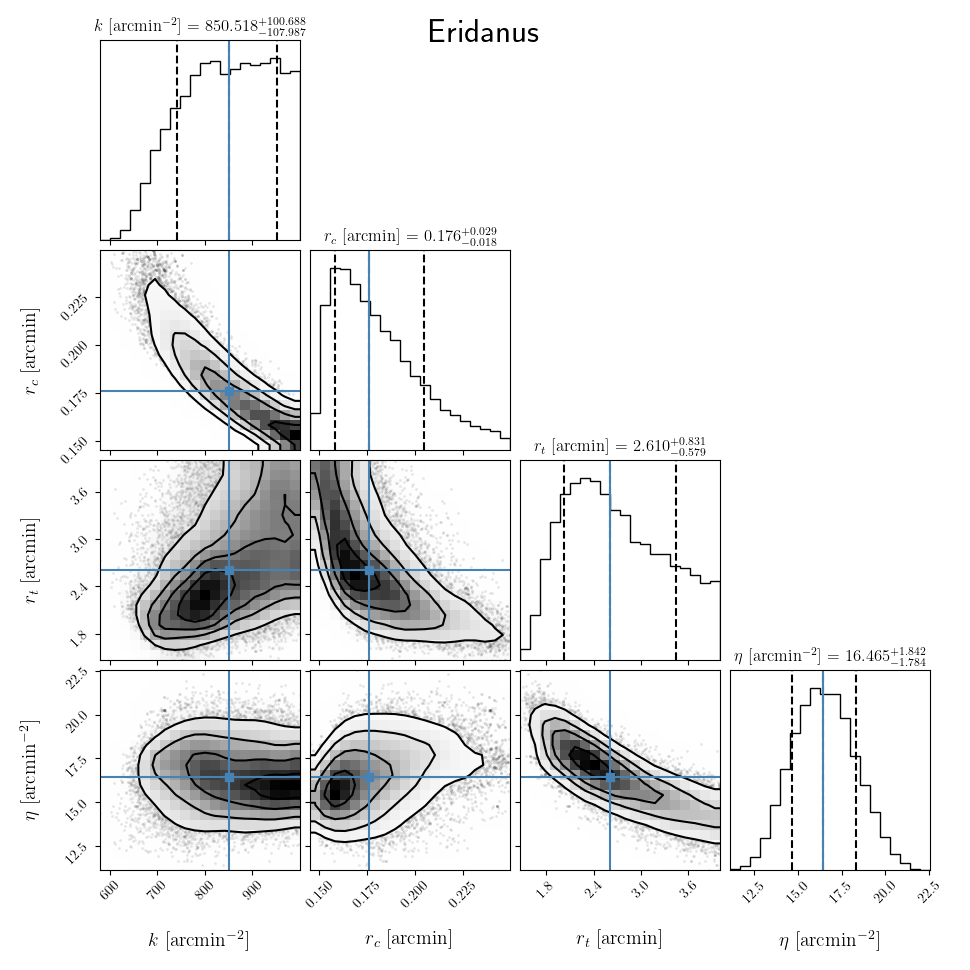
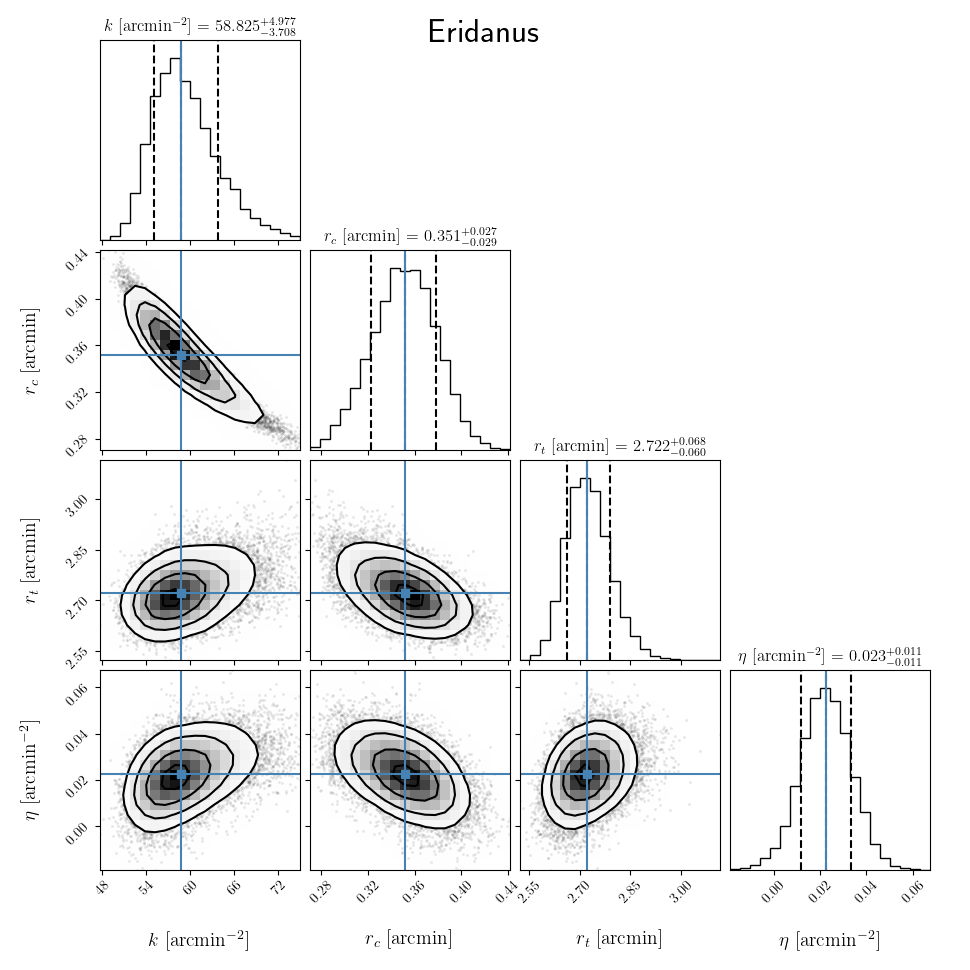
modify radial profile fitting

diff --git a/scripts/analysis.py b/scripts/analysis.py
@@ -27,8 +27,8 @@ def radial_mle(file_path, r_lower, r_upper, priors, p0):
     Parameters:
     
     file_path: path to the cluster membership list file
-    r_lower: minimum radius, from cluster centre, at which the radial profile must begin.
-    r_upper: maximum radius, from cluster centre, at which the radial profile ends
+    r_lower: minimum radius (arcmin), from cluster centre, at which the radial profile must begin.
+    r_upper: maximum radius (arcmin), from cluster centre, at which the radial profile ends
     priors: prior distribution (uniform), with specified bounds for each fit parameter 
     p0: initial guess"""
     
@@ -41,42 +41,36 @@ def radial_mle(file_path, r_lower, r_upper, priors, p0):
     y = np.cos(dec.mean())*np.sin(dec) - np.sin(dec.mean())*np.cos(dec)*np.cos(ra-ra.mean())
     R = (x**2 + y**2)**0.5*(180/np.pi*60) # R in arcmin!
 
-    bws = [0.4e-2, 0.5e-2, 1e-1]
+    diff = r_upper - r_lower
+    bws = [0.125e-2*diff, 0.25e-2*diff, 0.5e-2*diff]
     N_array = np.array([])
     r_array = np.array([])
 
-    r_lo, r_hi = 0.001, 20
-
     for bw0 in bws:
-    #     bw0 = 1e-1 #  bin width
-        r_bins = np.arange(r_lo, r_hi + bw0, bw0)
+        r_bins = np.arange(r_lower, r_upper + bw0, bw0)
         for r in r_bins[:-1]:
             N = len(R[(R<=r+bw0)&(R>r)])/(np.pi*((r+bw0)**2 - r**2))
             N_array = np.append(N_array, N)
             r_array = np.append(r_array, r)
 
+    bw1 = 2e-1*diff
 
-    N_array_nz = N_array[(N_array>0)] # Non-zero N(r) values
-    r_array_nz = r_array[(N_array>0)] # corresponding r values
-
-    bw1 = 5e-1
-
-    r_bins1 = np.arange(r_lo, r_hi + bw1, bw1)
+    r_bins1 = np.arange(r_lower, r_upper + bw1, bw1)
 
     N_new = np.array([])
     eN_new = np.array([])
     r_new = np.array([])
     for r_ in r_bins1[:-1]:
-        final_ind = (r_array_nz<=r_+bw1)&(r_array_nz>r_)
-        N_vals = N_array_nz[final_ind]
+        final_ind = (r_array<=r_+bw1)&(r_array>r_)
+        N_vals = N_array[final_ind]
 
         if N_vals.size<=1:
             continue
         else: 
             N_mean = N_vals.mean()
-            eN = np.sqrt(N_mean/N_vals.size)
-            N_new = np.append(N_new, N_mean)
-            eN_new = np.append(eN_new, eN)
+            eN = np.sqrt(N_mean/N_vals.size) # poissonian errors
+            N_new = np.append(N_new, N_mean) 
+            eN_new = np.append(eN_new, eN) 
             r_new = np.append(r_new, r_+0.5*bw1)
 
     # Log-Likelihood Function for MCMC
@@ -104,8 +98,7 @@ def radial_mle(file_path, r_lower, r_upper, priors, p0):
 
     pos = p0 + 1e-4 * np.random.randn(nwalkers, ndim)  # Slightly perturb initial guess
 
-    r_ind = (r_new>r_lower)&(r_new<r_upper)
-    sampler = emcee.EnsembleSampler(nwalkers, ndim, log_probability, args=(r_new[r_ind], N_new[r_ind], eN_new[r_ind]))
+    sampler = emcee.EnsembleSampler(nwalkers, ndim, log_probability, args=(r_new, N_new, eN_new))
 
 
     # Run MCMC
@@ -115,31 +108,39 @@ def radial_mle(file_path, r_lower, r_upper, priors, p0):
     # Extract Results
     samples = sampler.get_chain(discard=2000, thin=10, flat=True)
     
-    return samples, r_new[r_ind], N_new[r_ind], eN_new[r_ind]
+    return samples, r_new, N_new, eN_new
 
 
 # corner plot function:
-def corner_plot(file_path, samples, r_lower, r_upper):
+def corner_plot(file_path, rad_profile, r_lower, r_upper):
+    samples, rvals, Nvals, e_Nvals = rad_profile 
+    # samples: MCMC samples
+    # rvals: radius values from radial profile
+    # Nvals: surface density values from radial profile
+    # e_Nvals: errors in surface densitys
+
     clus_name = file_path.split('/')[-1][:-5]
     
-    best_fit = np.median(samples[0], axis=0)
-    error_hi = np.percentile(samples[0], 84, axis=0) - best_fit # upper error
-    error_lo = best_fit - np.percentile(samples[0], 16, axis=0) # lower error
+    best_fit = np.median(samples, axis=0)
+    error_hi = np.percentile(samples, 84, axis=0) - best_fit # upper error
+    error_lo = best_fit - np.percentile(samples, 16, axis=0) # lower error
     error_ab = (error_hi**2 + error_lo**2)**0.5 # total error
 
     # Plot Results
     fig, ax1 = plt.subplots(figsize=(8,6))
-    ax1.errorbar(samples[1], samples[2], yerr=samples[3], 
-                 capsize=2, lw=0, elinewidth=1, 
-                 ecolor='red', marker='s', 
-                 color='black', label="Data", ms=2)
-    rfit = np.linspace(r_lower, r_upper, 1000)
+    ax1.errorbar(rvals, Nvals, yerr=e_Nvals, 
+                 capsize=2, lw=0, elinewidth=1.5, 
+                 ecolor='red', marker='.', 
+                 color='black', label="Data", ms=3)
+    
+    plot_xlim = [1e-1,5e1]
+    rfit = np.linspace(*plot_xlim, 1000)
     ax1.plot(rfit, King(rfit, *best_fit), label="MCMC Fit", color="blue")
     
     # Compute model uncertainty using MCMC samples
-    n_samples_to_draw = 1000
-    sample_inds = np.random.choice(len(samples[0]), n_samples_to_draw, replace=False)
-    model_curves = np.array([King(rfit, *samples[0][i]) for i in sample_inds])
+    n_samples_to_draw = 2500
+    sample_inds = np.random.choice(len(samples), n_samples_to_draw, replace=False)
+    model_curves = np.array([King(rfit, *samples[i]) for i in sample_inds])
 
     # Compute percentiles at each radius
     lower = np.percentile(model_curves, 16, axis=0)
@@ -150,13 +151,14 @@ def corner_plot(file_path, samples, r_lower, r_upper):
     ensure_dir(results_dir)
 
     # Plot shaded 1-sigma region
-    ax1.fill_between(rfit, lower, upper, color='blue', alpha=0.3, label=r'$1\sigma$ band')
+    ax1.fill_between(rfit, lower, upper, color='blue', alpha=0.2, label=r'$1\sigma$ band')
     
+    ax1.set_xscale('log')
     ax1.set_yscale('log')
     ax1.set_xlabel(r'$r \rm \ [arcmin]$', size=16)
     ax1.set_ylabel(r'$N_{\rm stars}/\rm arcmin^2$', size=16)
     ax1.legend()
-    ax1.set_xlim(r_lower, r_upper)
+    ax1.set_xlim(*plot_xlim)
     fig.suptitle(f'{clus_name}', size=24)
     fig.tight_layout()
     plt.savefig(f'{results_dir}{clus_name} - MCMC fit.png')
@@ -175,7 +177,7 @@ def corner_plot(file_path, samples, r_lower, r_upper):
               r'$r_t \ \rm [arcmin]$', 
               r'$\eta \rm \ [arcmin^{-2}]$']
     
-    fig_corner = corner.corner(samples[0], labels=labels, quantiles=[0.16,0.5,0.84], truths=best_fit,
+    fig_corner = corner.corner(samples, labels=labels, quantiles=[0.16,0.5,0.84], truths=best_fit,
                                show_titles=True, title_fmt=".3f", title_kwargs={"fontsize": 12}, 
                                smooth=True, 
                                label_kwargs={'fontsize':14})
